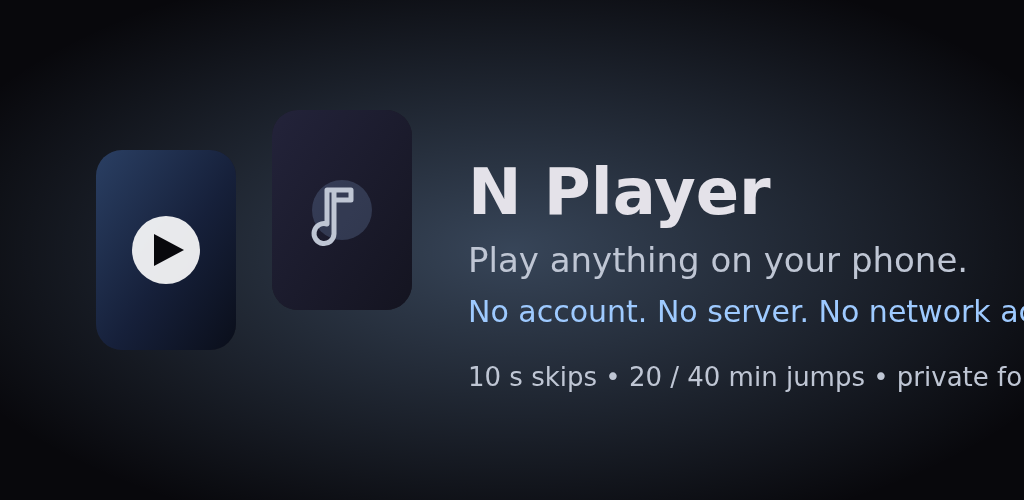
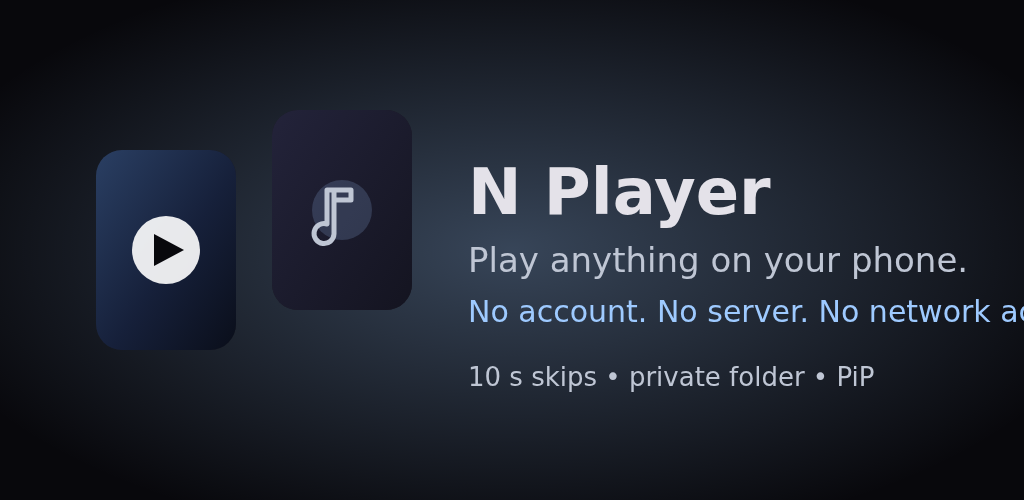
Remove the 20/40-minute quick-jump row
Drops QUICK_SEEK_STEPS and the SeekSteps helper (only the test used it), the
controls-overlay row that rendered it, the now-unused FontWeight import, and the
matching screenshot and copy in the README and store listing. Bumps to 1.1.2.

Changed region(s): [[0.5938, 0.72, 1.0, 0.78]]

diff --git a/NPlayer/app/src/main/java/com/example/nplayer/ui/player/PlayerScreen.kt b/NPlayer/app/src/main/java/com/example/nplayer/ui/player/PlayerScreen.kt
@@ -75,7 +75,6 @@ import androidx.compose.ui.Modifier
 import androidx.compose.ui.graphics.Color
 import androidx.compose.ui.input.pointer.pointerInput
 import androidx.compose.ui.platform.LocalContext
-import androidx.compose.ui.text.font.FontWeight
 import androidx.compose.ui.text.style.TextOverflow
 import androidx.compose.ui.unit.dp
 import androidx.compose.ui.viewinterop.AndroidView
@@ -84,7 +83,6 @@ import androidx.lifecycle.compose.collectAsStateWithLifecycle
 import androidx.media3.common.util.UnstableApi
 import androidx.media3.ui.PlayerView
 import com.example.nplayer.MainActivity
-import com.example.nplayer.playback.QUICK_SEEK_STEPS
 import com.example.nplayer.playback.SLEEP_TIMER_PRESETS
 import com.example.nplayer.playback.SPEED_PRESETS
 import com.example.nplayer.playback.formatClock
@@ -489,24 +487,6 @@ private fun ControlsOverlay(
         }
 
         Spacer(Modifier.height(10.dp))
-
-        // Long jumps for films: +20/+40 min forward and back, without dragging.
-        Row(
-            Modifier.fillMaxWidth(),
-            horizontalArrangement = Arrangement.Center,
-            verticalAlignment = Alignment.CenterVertically,
-        ) {
-            QUICK_SEEK_STEPS.forEach { step ->
-                TextButton(onClick = { onSeekBy(step.deltaMillis) }) {
-                    Text(
-                        step.label,
-                        color = Color.White,
-                        style = MaterialTheme.typography.labelLarge,
-                        fontWeight = FontWeight.Medium,
-                    )
-                }
-            }
-        }
 
         Spacer(Modifier.weight(1f))
 

diff --git a/docs/store/generate_screenshots.py b/docs/store/generate_screenshots.py
@@ -1,9 +1,9 @@
 #!/usr/bin/env python3
 """Generate Play Store phone screenshots (1080x1920) for N Player.
 
-The frames reproduce the 1.1.1 UI: the brand near-black/blue palette, rounded
+The frames reproduce the 1.1.2 UI: the brand near-black/blue palette, rounded
 poster cards with a duration pill, section headers with counts, the player's
-+/-10s buttons plus the 20/40-minute quick-jump row, and a selected-label-only
++/-10s buttons, and a selected-label-only
 bottom bar. Output: docs/store/screenshots/phone-*.png
 """
 
@@ -195,14 +195,7 @@ def screen_player():
     parts.append(f'<rect x="{W//2-24}" y="{cy-26}" width="14" height="52" rx="5" fill="{ON_PRIMARY}"/>')
     parts.append(f'<rect x="{W//2+10}" y="{cy-26}" width="14" height="52" rx="5" fill="{ON_PRIMARY}"/>')
     parts.append(f'<g transform="translate({W//2+248},{cy-52})"><path d="M26,0 A26,26 0 1 1 0,26" fill="none" stroke="#FFF" stroke-width="5" stroke-linecap="round"/><path d="M26,0 l0,13 l13,-6 z" fill="#FFF"/>{text(26,44,"10",size=20,fill="#FFF",anchor="middle")}</g>')
-    qy = cy + 150
-    labels = ["+20m", "+40m", "\u221220m", "\u221240m"]
-    step = (W - 2 * PAD) / len(labels)
-    for i, lab in enumerate(labels):
-        cx = int(PAD + step * i + step / 2)
-        parts.append(f'<rect x="{cx-92}" y="{qy-42}" width="184" height="84" rx="42" fill="#FFFFFF" opacity="0.10"/>')
-        parts.append(text(cx, qy + 12, lab, size=36, weight=600, fill="#FFFFFF", anchor="middle"))
-    sy = qy + 210
+    sy = cy + 220
     parts.append(text(PAD, sy, "24:18", size=28, fill="#FFFFFF"))
     parts.append(text(W - PAD, sy, "\u22121:12:04", size=28, fill="#FFFFFF", anchor="end"))
     parts.append(f'<rect x="{PAD}" y="{sy+26}" width="{W-2*PAD}" height="14" rx="7" fill="#33363F"/>')
@@ -217,10 +210,9 @@ def screen_player():
         cx += w + 18
     return frame("".join(parts), "N Player player",
                  "Player screen: full-bleed video under an overlay with back, title and lock, "
-                 "ten-second rewind and forward around a large pause button, a row of "
-                 "+20m, +40m, -20m and -40m quick jumps, a scrubber showing elapsed and "
-                 "remaining time, and a row of speed, aspect, repeat, shuffle, A-B, sleep, "
-                 "night, PiP, equalizer and subtitle controls.")
+                 "ten-second rewind and forward around a large pause button, a scrubber "
+                 "showing elapsed and remaining time, and a row of speed, aspect, repeat, "
+                 "shuffle, A-B, sleep, night, PiP, equalizer and subtitle controls.")
 
 
 def screen_detail():
@@ -340,12 +332,12 @@ def screen_settings():
     parts.append(text(PAD + 36, y + 72, "N Player", size=34, weight=700))
     parts.append(text(PAD + 36, y + 124, "Plays the video and audio already on this device.", size=24, fill=ON_SURFACE_VARIANT))
     parts.append(text(PAD + 36, y + 164, "No account, no server, no network access.", size=24, fill=ON_SURFACE_VARIANT))
-    parts.append(text(PAD + 36, y + 224, "Version 1.1.1 (4)", size=26, fill=PRIMARY, weight=600))
+    parts.append(text(PAD + 36, y + 224, "Version 1.1.2 (5)", size=26, fill=PRIMARY, weight=600))
     parts.append(bottom_bar(5, ["Home", "Search", "Folders", "Favourites", "Playlists", "Settings"]))
     return frame("".join(parts), "N Player settings",
                  "Settings screen: a System/Light/Dark theme selector, a Match my wallpaper "
                  "toggle, a biometric lock toggle, a private folder row, and an About card "
-                 "showing version 1.1.1, with the Settings destination selected.")
+                 "showing version 1.1.2, with the Settings destination selected.")
 
 
 SCREENS = [
@@ -378,7 +370,7 @@ def feature_graphic():
         text(468, 214, "N Player", size=64, weight=700),
         text(468, 272, "Play anything on your phone.", size=34, fill=ON_SURFACE_VARIANT),
         text(468, 322, "No account. No server. No network access.", size=30, fill=PRIMARY, weight=500),
-        text(468, 386, "10 s skips  \u2022  20 / 40 min jumps  \u2022  private folder  \u2022  PiP", size=26, fill=ON_SURFACE_VARIANT),
+        text(468, 386, "10 s skips  \u2022  private folder  \u2022  PiP", size=26, fill=ON_SURFACE_VARIANT),
     ]
     return frame("".join(parts), "N Player feature graphic",
                  "Feature graphic: the N Player name and tagline over two device cards, "

diff --git a/README.md b/README.md
@@ -34,6 +34,14 @@ files are there.
 
 </div>
 
+## What's new in 1.1.2
+
+1.1.2 simplifies the player controls.
+
+| Change | What it means |
+|---|---|
+| **Simpler player controls** | The +20m, +40m, −20m and −40m quick-jump row has been removed. The ±10 s buttons and the scrubber remain, so the transport row is less crowded. |
+
 ## What's new in 1.1.1
 
 1.1.1 fixes thumbnails that looked missing and brings the screenshots on this page in
@@ -243,7 +251,7 @@ button to ask again. Nothing is scanned until you grant it.
 <img src="docs/store/screenshots/phone-4-search.png" alt="Search screen with a Search this device field and matching results" width="230">
 <img src="docs/store/screenshots/phone-3-detail.png" alt="Detail screen with a video thumbnail, title, file metadata, a Play button and a favourite toggle" width="230">
 
-<img src="docs/store/screenshots/phone-2-player.png" alt="Player screen with the video surface, transport controls, the plus and minus 10 second buttons and the 20 and 40 minute quick-jump row" width="230">
+<img src="docs/store/screenshots/phone-2-player.png" alt="Player screen with the video surface and transport controls, including the plus and minus 10 second buttons" width="230">
 <img src="docs/store/screenshots/phone-5-folders.png" alt="Folders screen with a breadcrumb trail and sub-folders with recursive counts" width="230">
 <img src="docs/store/screenshots/phone-6-settings.png" alt="Settings screen with an Appearance section holding a segmented Light, Dark and System theme control, a biometric lock switch, and an About section" width="230">
 

diff --git a/docs/store/listing.md b/docs/store/listing.md
@@ -28,9 +28,8 @@ library. Nothing is uploaded, and the app does not request internet access at
 all, so it cannot send anything anywhere even in principle.
 
 BUILT FOR LONG FILES
-A 10-second skip is fine for a clip. For a film you want bigger steps, so the
-player also gives you quick jumps of 20 and 40 minutes in both directions. The
-seek bar shows the time left, so you always know how much is remaining.
+The seek bar shows the time left, so you always know how much of a film is
+remaining, and a 10-second skip moves you precisely when you need it.
 
 MADE TO BE EASY ON THE EYES
 Rounded artwork cards with the duration on each one, clear section headings,
@@ -94,7 +93,7 @@ DataStore, the "no data collected" answer is accurate and verifiable.
 | File | Use |
 |---|---|
 | `screenshots/phone-1-home.png` | Phone screenshot 1 |
-| `screenshots/phone-2-player.png` | Phone screenshot 2 — shows the 20/40-minute jumps |
+| `screenshots/phone-2-player.png` | Phone screenshot 2 — the player controls |
 | `screenshots/phone-3-detail.png` | Phone screenshot 3 |
 | `screenshots/phone-4-search.png` | Phone screenshot 4 |
 | `screenshots/phone-5-folders.png` | Phone screenshot 5 |
